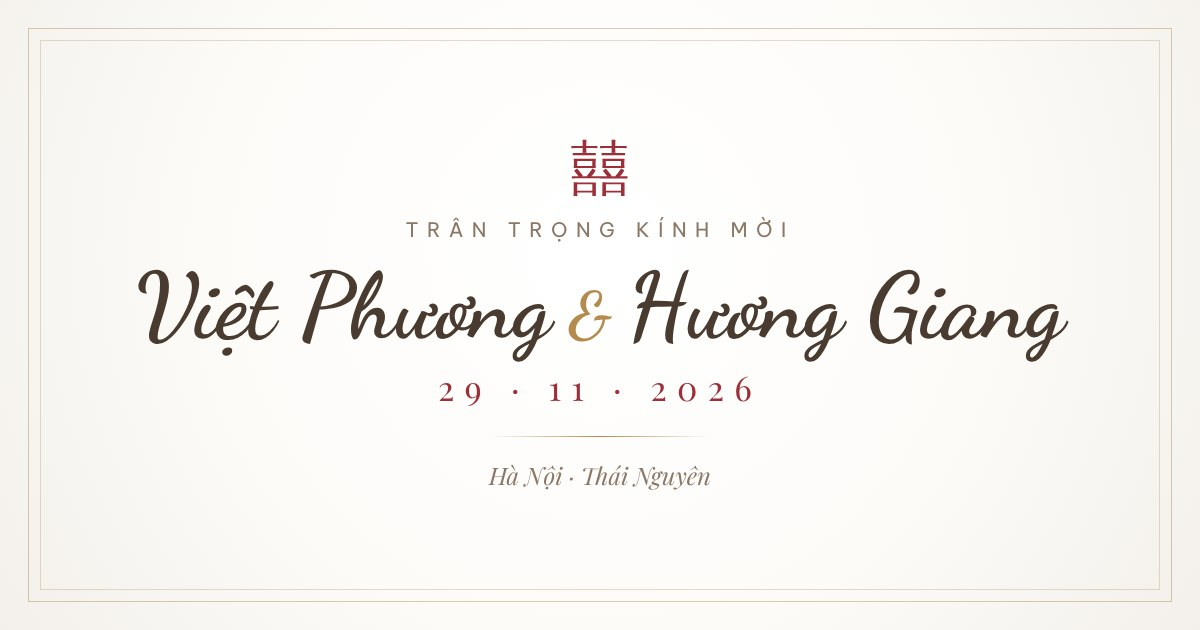
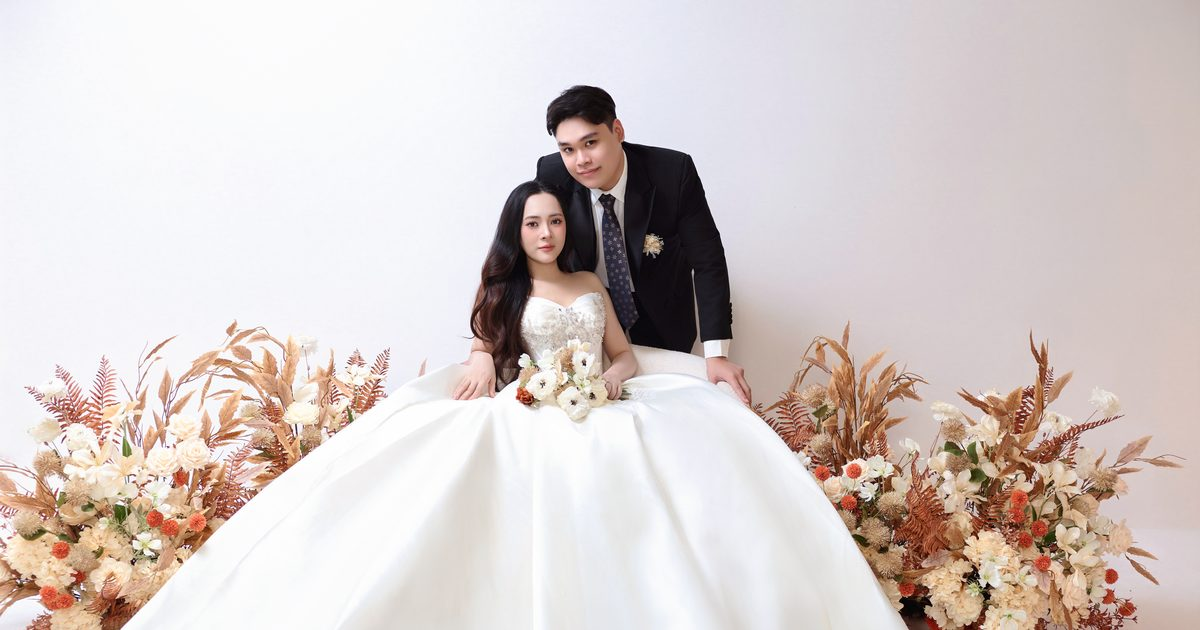
Đổi ảnh xem trước khi chia sẻ link sang ảnh cưới
Claude-Session: https://claude.ai/code/session_013oSfTHRkbAXp6xpsoK4V9D

diff --git a/index.html b/index.html
@@ -15,8 +15,8 @@
   <meta property="og:url" content="https://phuongbv00.github.io/thiep-cuoi/" />
   <meta property="og:title" content="Thiệp cưới Việt Phương &amp; Hương Giang" />
   <meta property="og:description" content="Chủ Nhật, 29.11.2026 · Trân trọng kính mời bạn đến chung vui cùng gia đình chúng tôi." />
-  <meta property="og:image" content="https://phuongbv00.github.io/thiep-cuoi/images/og-image.jpg" />
-  <meta property="og:image:secure_url" content="https://phuongbv00.github.io/thiep-cuoi/images/og-image.jpg" />
+  <meta property="og:image" content="https://phuongbv00.github.io/thiep-cuoi/images/og-image.jpg?v=2" />
+  <meta property="og:image:secure_url" content="https://phuongbv00.github.io/thiep-cuoi/images/og-image.jpg?v=2" />
   <meta property="og:image:type" content="image/jpeg" />
   <meta property="og:image:width" content="1200" />
   <meta property="og:image:height" content="630" />
@@ -24,7 +24,7 @@
   <meta name="twitter:card" content="summary_large_image" />
   <meta name="twitter:title" content="Thiệp cưới Việt Phương &amp; Hương Giang" />
   <meta name="twitter:description" content="Chủ Nhật, 29.11.2026 · Trân trọng kính mời" />
-  <meta name="twitter:image" content="https://phuongbv00.github.io/thiep-cuoi/images/og-image.jpg" />
+  <meta name="twitter:image" content="https://phuongbv00.github.io/thiep-cuoi/images/og-image.jpg?v=2" />
 
   <meta name="theme-color" content="#fcfbf8" />
   <link rel="apple-touch-icon" href="images/apple-touch-icon.png" />

diff --git a/images/README.md b/images/README.md
@@ -41,5 +41,5 @@ convert album-19.jpg -resize 720x720 -strip -interlace JPEG -quality 76 thumbs/a
 
 ## Ảnh xem trước khi chia sẻ link
 
-`og-image.jpg` (1200×630) hiện khi gửi link qua Zalo, Messenger, Facebook (hiện là bản thiết kế chữ).
+`og-image.jpg` (1200×630) hiện khi gửi link qua Zalo, Messenger, Facebook, cắt từ ảnh gốc 1M4A3886. Khi thay ảnh này, tăng số `?v=` của `og-image.jpg` trong `index.html` để các app không dùng ảnh cũ đã lưu.
 `apple-touch-icon.png` là biểu tượng khi khách lưu thiệp ra màn hình chính.
